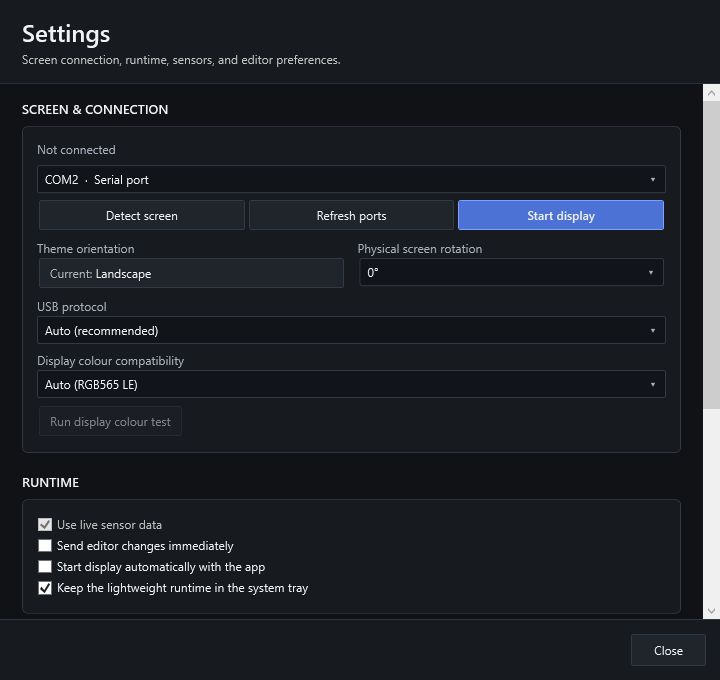
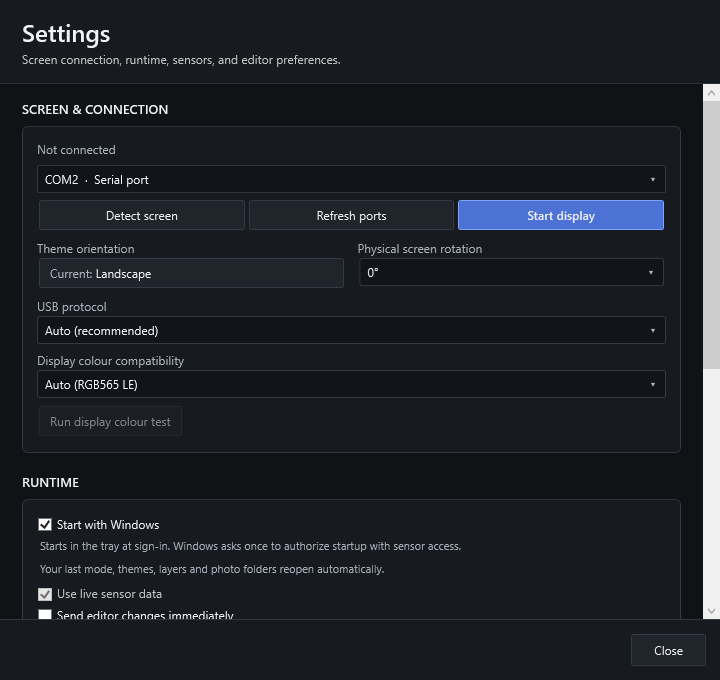
Show Windows startup and updated sensor settings in README screenshots [skip ci]

Changed region(s): [[0.0306, 0.7412, 0.5806, 0.9265], [0.9778, 0.525, 1.0, 0.6176]]

diff --git a/README.md b/README.md
@@ -144,6 +144,8 @@ At Windows sign-in, the app starts in the tray, restores your last mode and work
 
 Closing to the tray keeps the same session running. **Exit** saves a private resume snapshot, including Info Screen and Hybrid layers, each mode's loaded theme and photo settings, linked photos/folders, and unsaved edits. Windows logoff/restart also saves this snapshot. Opening the app again restores it automatically without overwriting any reusable theme file. Use **Save** under Theme options when you want to update that reusable theme. Linked photos stay on the PC.
 
+![Runtime settings with Windows startup and automatic display connection enabled](docs/images/windows-startup.png)
+
 The system-tray option is in **Settings > RUNTIME**. When minimized or closed to the tray, editor-only preview work is suspended and preview resources are released while display output continues as needed. The tray menu provides mode switching and previous/pause/next photo controls.
 
 Photo preparation uses a bounded display-sized cache. Memory usage varies with theme assets and workload; see the [roadmap](docs/ROADMAP.md) for the current owner-reported observation and remaining validation work.
